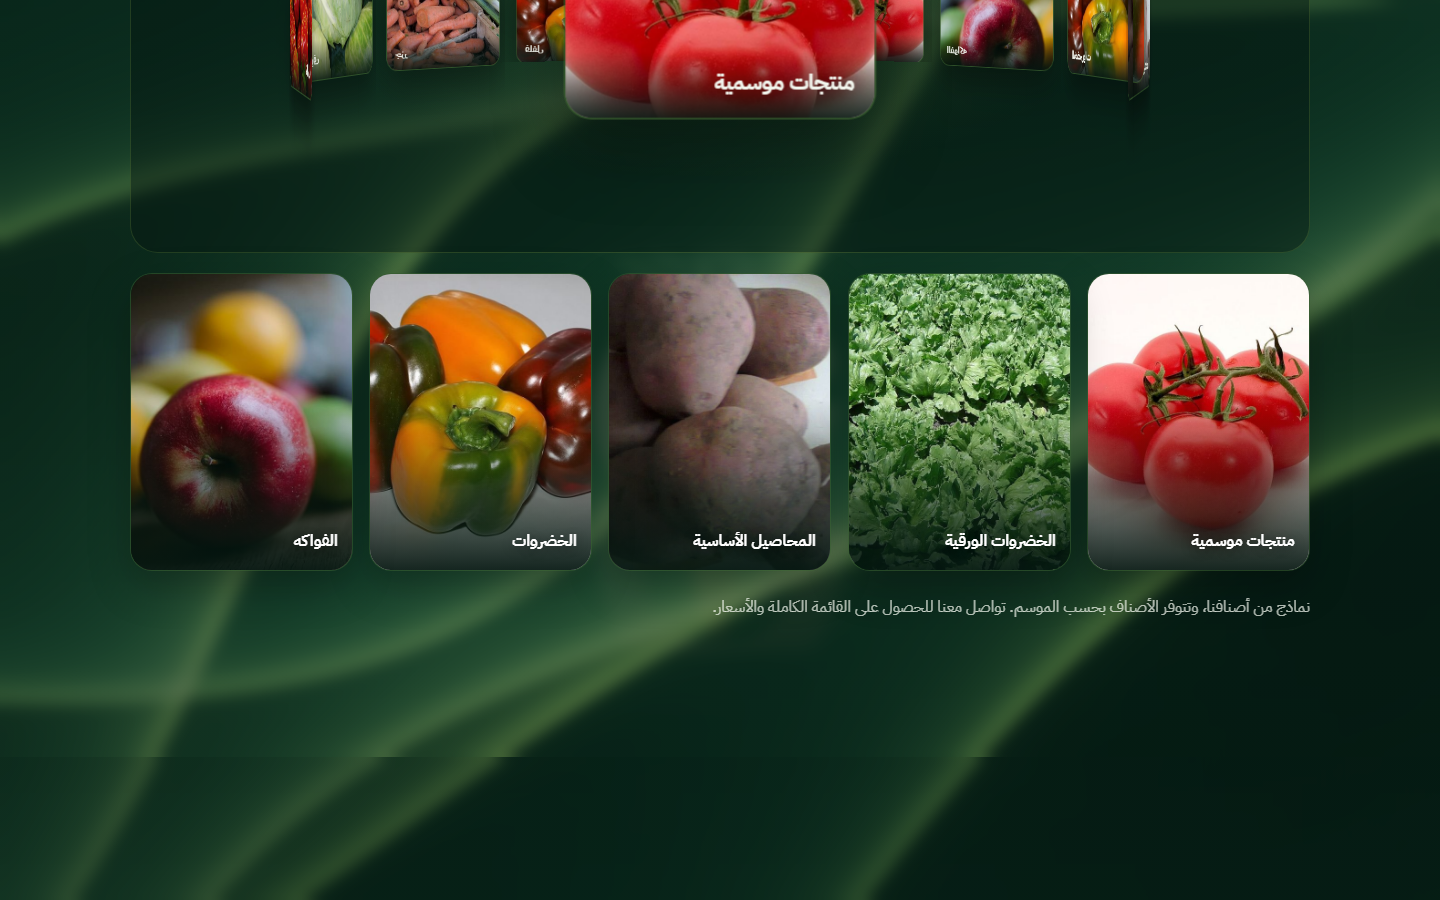
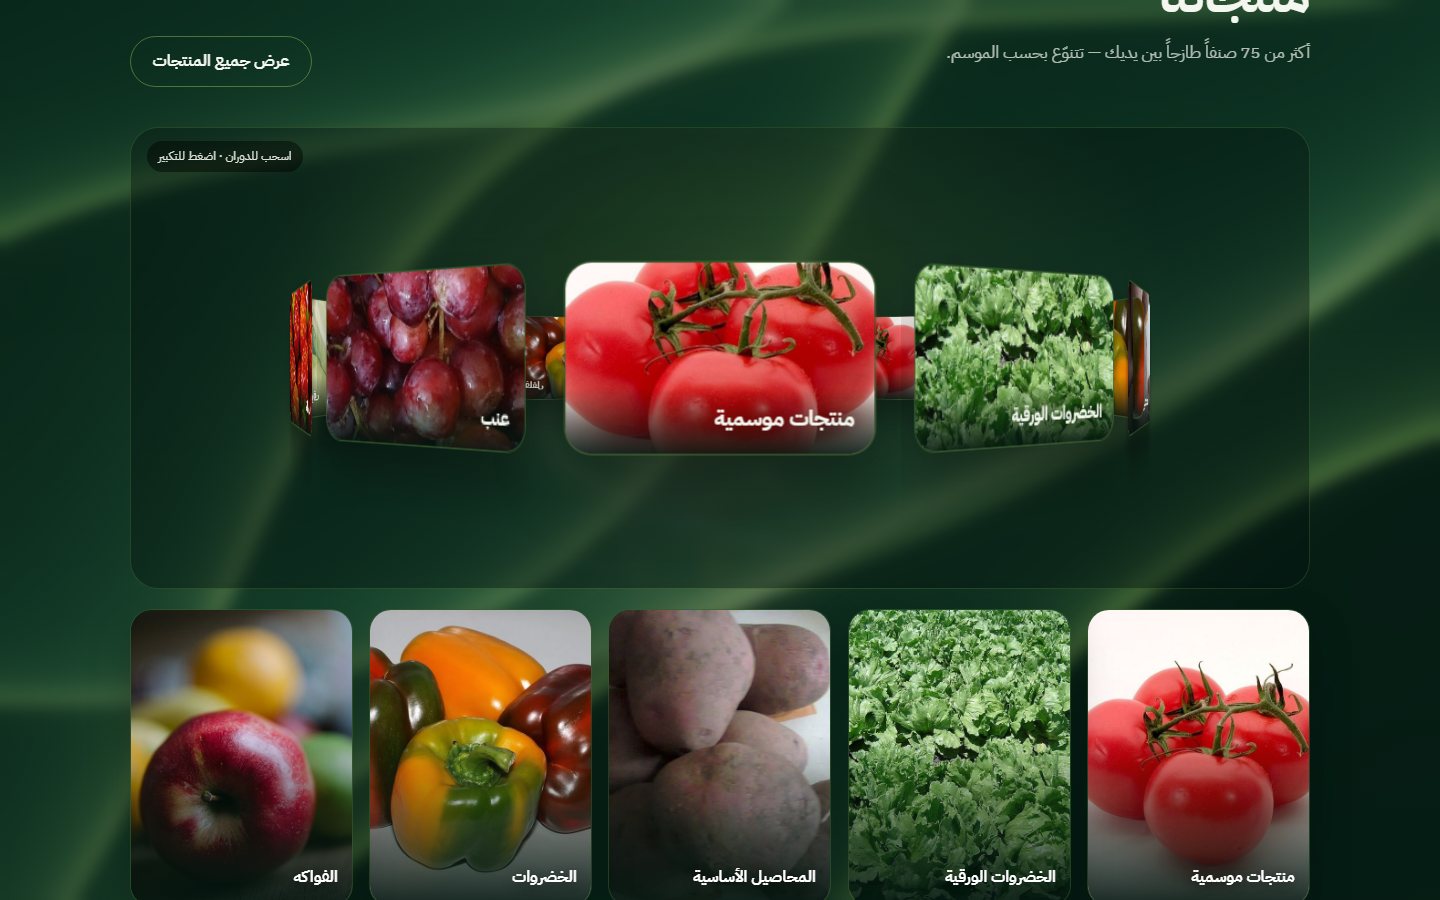
fix: full Arabic i18n — no leftover English in RTL
Replace EN hero subtitle and products.leadEn binding; Arabic brand mark,
search placeholder, carousel hint, and aria labels when lang=ar.

diff --git a/index.html b/index.html
@@ -62,11 +62,11 @@
         />
         <span class="nav__brand-txt">
           <b data-i18n="brand.name">العناد الوطنية</b>
-          <small>AL-ANAD NATIONAL</small>
+          <small data-i18n="brand.mark">العناد</small>
         </span>
       </a>
 
-      <nav class="nav__links" id="navLinks" aria-label="Primary">
+      <nav class="nav__links" id="navLinks" data-i18n-aria="nav.aria" aria-label="القائمة الرئيسية">
         <a href="#hero" class="is-active" data-i18n="nav.home">الرئيسية</a>
         <a href="#about" data-i18n="nav.about">من نحن</a>
         <a href="#products" data-i18n="nav.products">منتجاتنا</a>
@@ -77,11 +77,11 @@
       </nav>
 
       <div class="nav__end">
-        <div class="lang" role="group" aria-label="Language">
+        <div class="lang" role="group" data-i18n-aria="lang.aria" aria-label="اللغة">
           <button type="button" class="lang__btn is-active" data-lang="ar" data-i18n="lang.ar">عربي</button>
           <button type="button" class="lang__btn" data-lang="en" data-i18n="lang.en">EN</button>
         </div>
-        <button class="burger" id="burger" type="button" aria-label="Menu" aria-expanded="false">
+        <button class="burger" id="burger" type="button" data-i18n-aria="ui.menu" aria-label="القائمة" aria-expanded="false">
           <i></i><i></i>
         </button>
       </div>
@@ -135,7 +135,7 @@
             من قلب المزارع، نصنع الفرق في كل محصول.
           </h1>
           <p class="hero__sub" data-i18n="hero.subtitle">
-            From the heart of farms, delivering freshness everywhere.
+            من قلب المزارع… نوصّل النضارة إلى كل مكان.
           </p>
           <p class="hero__lead" data-i18n="hero.lead">
             كيان تجاري متخصص بتوريد الخضار والفواكه بأعلى معايير الجودة.
@@ -189,7 +189,7 @@
               <img src="/img/trucks.jpg" alt="" class="about__shot is-on" data-about-shot />
               <img src="/img/packing.jpg" alt="" class="about__shot" data-about-shot />
               <img src="/img/coldroom.jpg" alt="" class="about__shot" data-about-shot />
-              <button class="about__play" type="button" id="aboutPlay" aria-label="Play">
+              <button class="about__play" type="button" id="aboutPlay" data-i18n-aria="ui.play" aria-label="تشغيل الفيديو">
                 <svg width="28" height="28" viewBox="0 0 24 24" fill="currentColor"><path d="M8 6.5v11l10-5.5L8 6.5z"/></svg>
               </button>
               <video
@@ -303,7 +303,7 @@
             <div>
               <p class="kicker" data-i18n="products.kicker">منتجاتنا</p>
               <h2 class="h2" data-split data-i18n="products.title">منتجاتنا</h2>
-              <p class="lead" data-i18n="products.leadEn">A diverse range of high-quality vegetables and fruits.</p>
+              <p class="lead" data-i18n="products.lead">أكثر من 75 صنفاً طازجاً بين يديك — تتنوّع بحسب الموسم.</p>
             </div>
             <button class="btn btn--outline" type="button" id="toggleCatalog" data-i18n="products.all">
               عرض جميع المنتجات
@@ -341,7 +341,7 @@
 
           <div class="catalog" id="catalog" hidden>
             <div class="catalog__toolbar">
-              <input type="search" id="productSearch" placeholder="بحث / Search" />
+              <input type="search" id="productSearch" data-i18n-placeholder="products.search" placeholder="بحث في الأصناف" />
             </div>
             <div class="catalog__grid" id="productGrid"></div>
           </div>
@@ -472,7 +472,7 @@
           <img src="/brand/al-anad-new-logo-256.png" alt="" width="44" height="44" />
           <span class="nav__brand-txt">
             <b data-i18n="brand.name">العناد الوطنية</b>
-            <small>AL-ANAD NATIONAL</small>
+            <small data-i18n="brand.mark">العناد</small>
           </span>
         </a>
         <p data-i18n="footer.tagline"></p>

diff --git a/src/data/i18n.js b/src/data/i18n.js
@@ -1,7 +1,7 @@
 /** Real company copy — Arabic default, English secondary. */
 export const STRINGS = {
   ar: {
-    brand: { name: 'العناد الوطنية', en: 'AL-ANAD NATIONAL' },
+    brand: { name: 'العناد الوطنية', mark: 'العناد' },
     nav: {
       home: 'الرئيسية',
       about: 'من نحن',
@@ -10,12 +10,14 @@ export const STRINGS = {
       partners: 'شركاؤنا',
       numbers: 'الأرقام',
       contact: 'تواصل معنا',
+      aria: 'القائمة الرئيسية',
     },
-    lang: { ar: 'عربي', en: 'EN' },
+    lang: { ar: 'عربي', en: 'EN', aria: 'اللغة' },
+    ui: { menu: 'القائمة', play: 'تشغيل الفيديو' },
     hero: {
       badge: 'منذ عام 2007',
       title: 'من قلب المزارع، نصنع الفرق في كل محصول.',
-      subtitle: 'From the heart of farms, delivering freshness everywhere.',
+      subtitle: 'من قلب المزارع… نوصّل النضارة إلى كل مكان.',
       lead:
         'كيان تجاري متخصص بتوريد الخضار والفواكه بأعلى معايير الجودة، تحت إشراف كفاءات وخبرات، وبأسرع وسائل النقل المبرّد — من الفرز والتعبئة إلى باب عميلنا بسلسلة تبريد لا تنقطع.',
       cta1: 'استكشف منتجاتنا',
@@ -75,8 +77,9 @@ export const STRINGS = {
       kicker: 'منتجاتنا',
       title: 'منتجاتنا',
       lead: 'أكثر من 75 صنفاً طازجاً بين يديك — تتنوّع بحسب الموسم.',
-      leadEn: 'A diverse range of high-quality vegetables and fruits.',
       all: 'عرض جميع المنتجات',
+      search: 'بحث في الأصناف',
+      carouselHint: 'اسحب للدوران · اضغط للتكبير',
       cats: [
         { id: 'seasonal', t: 'منتجات موسمية', en: 'Seasonal' },
         { id: 'leafy', t: 'الخضروات الورقية', en: 'Leafy greens' },
@@ -143,7 +146,7 @@ export const STRINGS = {
     },
   },
   en: {
-    brand: { name: 'Al-Anad National', en: 'AL-ANAD NATIONAL' },
+    brand: { name: 'Al-Anad National', mark: 'AL-ANAD NATIONAL' },
     nav: {
       home: 'Home',
       about: 'About',
@@ -152,8 +155,10 @@ export const STRINGS = {
       partners: 'Partners',
       numbers: 'Numbers',
       contact: 'Contact',
+      aria: 'Primary navigation',
     },
-    lang: { ar: 'عربي', en: 'EN' },
+    lang: { ar: 'عربي', en: 'EN', aria: 'Language' },
+    ui: { menu: 'Menu', play: 'Play video' },
     hero: {
       badge: 'Since 2007',
       title: 'From the heart of farms, we make the difference in every crop.',
@@ -216,8 +221,9 @@ export const STRINGS = {
       kicker: 'Our products',
       title: 'Our products',
       lead: 'More than 75 fresh varieties — available by season.',
-      leadEn: 'A diverse range of high-quality vegetables and fruits.',
       all: 'View all products',
+      search: 'Search varieties',
+      carouselHint: 'Drag to spin · tap to enlarge',
       cats: [
         { id: 'seasonal', t: 'Seasonal products', en: 'Seasonal' },
         { id: 'leafy', t: 'Leafy greens', en: 'Leafy greens' },

diff --git a/src/main.js b/src/main.js
@@ -37,6 +37,16 @@ function applyI18n(locale) {
     if (typeof value === 'string') el.textContent = value;
   });
 
+  document.querySelectorAll('[data-i18n-placeholder]').forEach((el) => {
+    const value = getByPath(dict, el.dataset.i18nPlaceholder);
+    if (typeof value === 'string') el.setAttribute('placeholder', value);
+  });
+
+  document.querySelectorAll('[data-i18n-aria]').forEach((el) => {
+    const value = getByPath(dict, el.dataset.i18nAria);
+    if (typeof value === 'string') el.setAttribute('aria-label', value);
+  });
+
   document.querySelectorAll('.lang__btn').forEach((btn) => {
     btn.classList.toggle('is-active', btn.dataset.lang === locale);
   });
@@ -199,6 +209,8 @@ function initProductsCarousel(lenis) {
     reduced,
     locale: langNow(),
     lenis,
+    hintAr: STRINGS.ar.products.carouselHint,
+    hintEn: STRINGS.en.products.carouselHint,
     onSelect: (index) => {
       const cat = PRODUCT_CAROUSEL_ITEMS[index];
       const catalog = document.querySelector('#catalog');

diff --git a/src/effects/cylinder-carousel.js b/src/effects/cylinder-carousel.js
@@ -74,8 +74,10 @@ export function mountCylinderCarousel(root, opts = {}) {
 
   const updateHint = () => {
     if (!hint) return;
-    hint.textContent =
+    const fallback =
       locale === 'en' ? 'Drag to spin · tap to enlarge' : 'اسحب للدوران · اضغط للتكبير';
+    hint.textContent =
+      locale === 'en' ? opts.hintEn || fallback : opts.hintAr || fallback;
   };
   updateHint();
 
